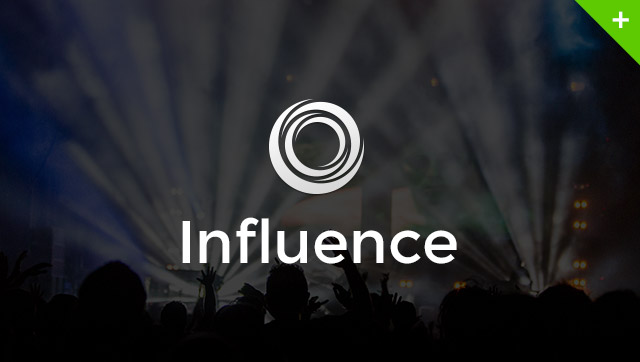
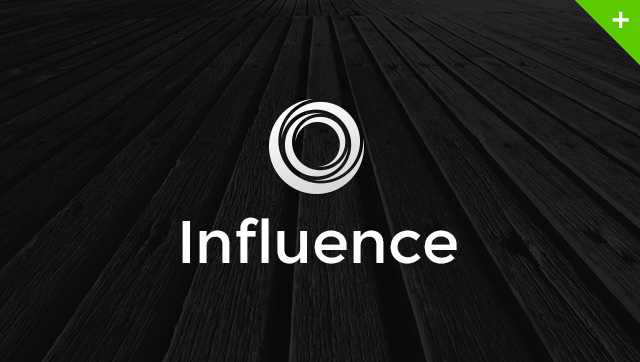
Updates to bundled images.

diff --git a/demo/slider.php b/demo/slider.php
@@ -1,11 +1,21 @@
 <div class="sow-slider-base" style="display: none">
 
-	<ul class="sow-slider-images" data-settings="{&quot;pagination&quot;:true,&quot;speed&quot;:850,&quot;timeout&quot;:12000}">
-		<li class="sow-slider-image sow-slider-image-cover" style="background-image: url();">
+	<ul class="sow-slider-images" data-settings="{&quot;pagination&quot;:true,&quot;speed&quot;:850,&quot;timeout&quot;:5000}">
+		<li class="sow-slider-image sow-slider-image-cover" style="background-image: url(<?php echo get_template_directory_uri() ?>/demo/assets/slide-2.jpg);">
 
 			<div class="sow-slider-image-container">
 				<div class="sow-slider-image-wrapper" style="max-width: 720px;">
 					<img width="720" height="500" src="<?php echo get_template_directory_uri() ?>/demo/assets/slider-badge.png" class="attachment-full" alt="slider-badge">
+				</div>
+			</div>
+
+		</li>
+
+		<li class="sow-slider-image sow-slider-image-cover" style="background-image: url();">
+
+			<div class="sow-slider-image-container">
+				<div class="sow-slider-image-wrapper" style="max-width: 700px;">
+					<img width="700" height="500" src="<?php echo get_template_directory_uri() ?>/demo/assets/slider-badge-2.png" class="attachment-full" alt="slider-badge-2">
 				</div>
 			</div>
 
@@ -16,15 +26,6 @@
 
 		</li>
 
-		<li class="sow-slider-image sow-slider-image-cover" style="background-image: url(<?php echo get_template_directory_uri() ?>/demo/assets/slide-2.jpg);">
-
-			<div class="sow-slider-image-container">
-				<div class="sow-slider-image-wrapper" style="max-width: 700px;">
-					<img width="700" height="500" src="<?php echo get_template_directory_uri() ?>/demo/assets/slider-badge-2.png" class="attachment-full" alt="slider-badge-2">
-				</div>
-			</div>
-
-		</li>
 	</ul>
 
 	<ol class="sow-slider-pagination">

diff --git a/inc/slider.php b/inc/slider.php
@@ -39,7 +39,7 @@ function influence_enqueue_slider_demo_scripts(){
 	if( !is_front_page() || siteorigin_setting('home_displays') != 'demo' ) return;
 
 	if( wp_script_is('sow-slider-slider', 'registered') ) {
-		// Use teh default scripts from the slider widget plugin
+		// Use the default scripts from the slider widget plugin
 		wp_enqueue_style('sow-slider-slider');
 		wp_enqueue_script('sow-slider-slider-cycle2');
 		if( wp_is_mobile() ) wp_enqueue_script('sow-slider-slider-cycle2-swipe');
